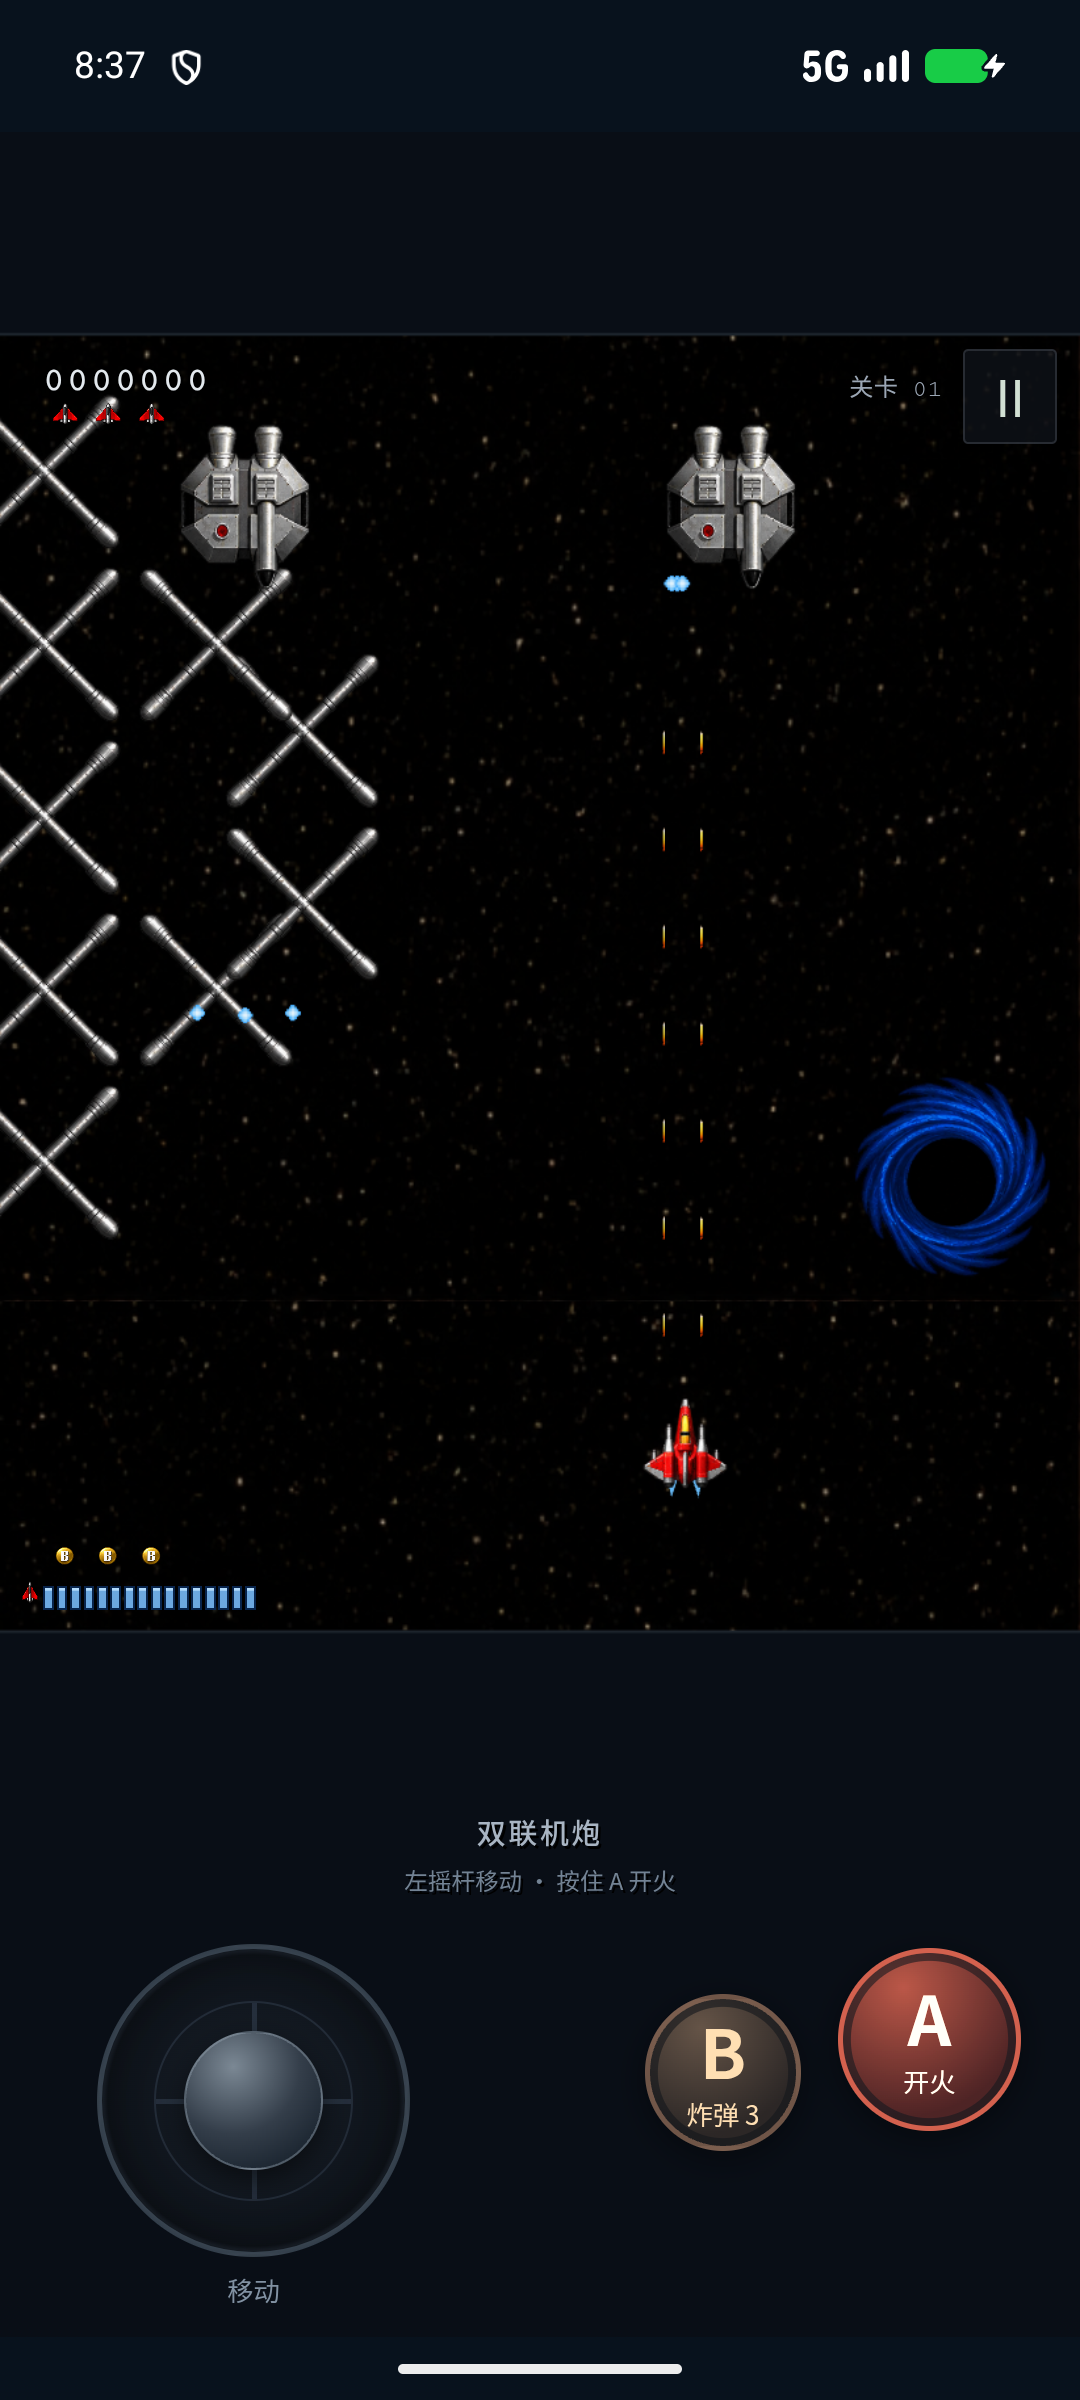
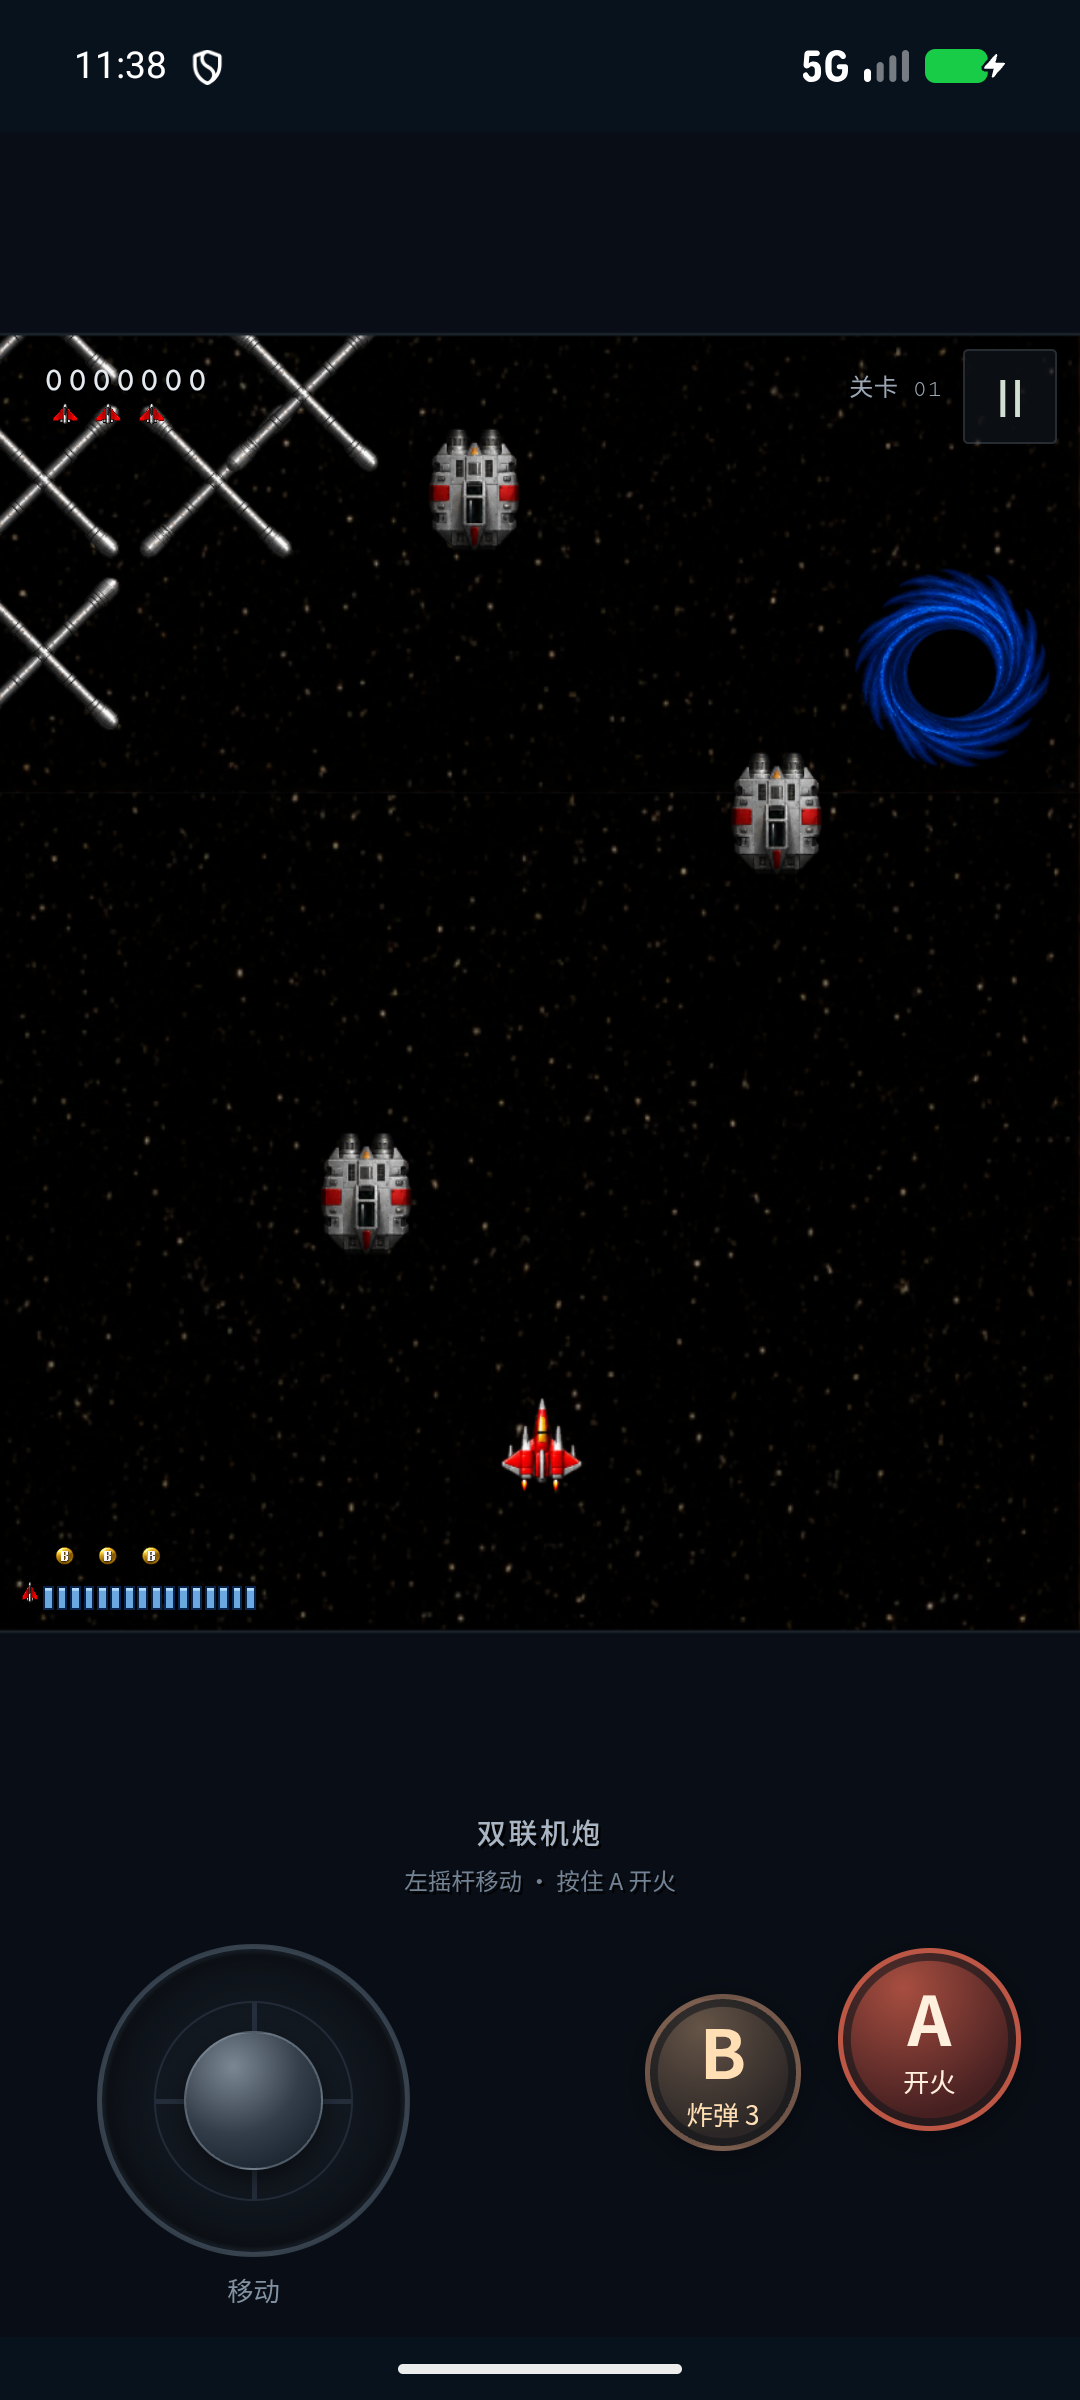
Document verified v0.2.1 mobile packages and authorized audio

diff --git a/tools/publish-release.py b/tools/publish-release.py
@@ -30,7 +30,7 @@ def main():
     api=GitHub();base='/repos/'+REPO
     releases=api.request(base+'/releases?per_page=100');release=next((r for r in releases if r['tag_name']==args.tag),None)
     notes=args.notes.read_text(encoding='utf-8')+'\n\n源码提交：`'+head+'`\n构建与验收提交：`'+args.build_sha+'`\n'
-    if release is None:release=api.request(base+'/releases','POST',{'tag_name':args.tag,'target_commitish':head,'name':'恶魔之星·重生 '+args.tag+' · M2.1 飞行与声音修正','body':notes,'draft':True,'prerelease':False})
+    if release is None:release=api.request(base+'/releases','POST',{'tag_name':args.tag,'target_commitish':head,'name':'恶魔之星·重生 '+args.tag+' · M2.1 原版装备与音效修正','body':notes,'draft':True,'prerelease':False})
     for file in paths:
         data=file.read_bytes();expected='sha256:'+hashlib.sha256(data).hexdigest();asset=next((a for a in release['assets'] if a['name']==file.name),None)
         if asset is None:

diff --git a/README.md b/README.md
@@ -6,7 +6,7 @@ DemonStar 4.04 的非官方移动端高清复刻，目标 **Android 10+ / iOS 12
 
 首个里程碑仅提供中文界面，后续再加入英文语言包。Android 与 iOS 共用离线 Canvas 游戏内核，分别由系统 WebView 和 UIKit/WKWebView 承载；没有广告、账号、埋点、联网权限或内购。
 
-**当前 M2.1（v0.2.1）修正经典 HUD、初始双发与双手操作，仍不是已验收的完整 1:1 移植。** 原版 1–18 关优先；19–25 关尚未开发。完整的确认项、推断值与差异见 [还原状态](docs/FIDELITY.md)。
+**当前 M2.1（v0.2.1）修正原版装备、主机飞行与声音，仍不是已验收的完整 1:1 移植。** 原版 1–18 关优先；19–25 关尚未开发。完整的确认项、推断值与差异见 [还原状态](docs/FIDELITY.md)。
 
 ![Menu](docs/screenshots/menu.png)
 
@@ -27,7 +27,7 @@ DemonStar 4.04 的非官方移动端高清复刻，目标 **Android 10+ / iOS 12
 - 逻辑采用原作代码中的 35 毫秒基础节拍，绘制插值保持平滑；敌方移动/射击与关卡滚动统一计时，Boss 出场按原版采用两倍基础 HP（纠正 v0.2.0 的误改）。尚未完成原作录像逐帧速度验收。
 - 原作机库菜单、主机、十八关背景、全部 Boss、第一关主要敌机/地物与武器弹体已有 AI 高清素材；尚未覆盖的敌机和地物仍有近似图形。原版音乐、双人、联网、地图编辑器未包含。
 
-[Android 竖屏实测画面](docs/screenshots/android-game.png) · [横屏实测画面](docs/screenshots/android-landscape.png) · [M2 补给重绘记录](docs/ART_COMBAT.md)
+[Android 竖屏实测画面](docs/screenshots/android-game.png) · [横屏实测画面](docs/screenshots/android-landscape.png) · [满级等离子清屏](docs/screenshots/nova-plasma.png) · [补给舱高清图集](docs/ART_SUPPLY.md) · [主机姿态图集](docs/ART_MOTION.md)
 
 ## 安装
 
@@ -91,7 +91,9 @@ open ios/DemonStar.xcodeproj
 
 M2.1 的 34 项引擎与音频回归通过，覆盖 18 关 Boss、开局双发、全部掉落编号、混合库存、轮换周期及不同刷新率的一致性。浏览器通过真实双指移动/开火、松手停止、禁止战场拖动瞬移、横竖屏及展开尺寸、暂停和旧 API 回退检查。
 
-Android Debug/签名 Release 编译及两种 Lint 通过；现有 Android 17 / API 37 AVD 上通过摇杆、A/B、旋转保持库存、系统返回和后台暂停验收，最终重建 APK 与实测包哈希一致。[Apple CI](https://github.com/Hashiao/DemonStar-Reborn/actions/runs/37907161109) 通过 iPhoneOS ARM64 编译，以及 iOS 18.5 的 iPhone 16 Pro、iPad Pro 11 英寸 (M4) 实际 WKWebView 输入探针：移动、双发、松手停止、初始生命/能量和炸弹消耗均通过。IPA 版本 0.2.0（2），包体与可执行文件最低系统检查为 12.0。[完整验收记录](https://github.com/Hashiao/DemonStar-Reborn/releases/download/v0.2.0/verification.json)。
+Android Debug/签名 Release 编译及两种 Lint 通过（0 错误，3 项平台兼容提示）；复用 Android 17 / API 37 AVD 验收摇杆、A/B、旋转保持库存、系统返回和后台暂停，测试与发布使用同一 APK。[Apple CI](https://github.com/Hashiao/DemonStar-Reborn/actions/runs/37924914574) 通过 iPhoneOS ARM64 编译，以及 iOS 18.5 的 iPhone 16 Pro、iPad Pro 11-inch (M4) 实际 WKWebView 输入探针：移动、双发、松手停止、初始生命/能量、炸弹消耗和新图集加载均通过。IPA 版本 0.2.1（3），包体与可执行文件最低系统检查为 12.0。两包内 22 个 MP3 均与用户提供源文件哈希一致，旧合成 WAV 已移除，包内文件名全部为 ASCII。[完整验收记录](https://github.com/Hashiao/DemonStar-Reborn/releases/download/v0.2.1/verification.json)。
+
+浏览器已验证真实 AudioContext 的开场播报、命中及爆炸调度；Android 模拟器本轮关闭声音输出，未做手机扬声器听感验收。
 
 旧 API 回退测试在 Chromium 中模拟缺失接口，**不是 iOS 12 真机测试**。`artifacts/*-verification.json` 和 Release 说明记录实际测试情况。
 

diff --git a/docs/releases/v0.2.1.md b/docs/releases/v0.2.1.md
@@ -1,4 +1,4 @@
-# v0.2.1 · M2.1 飞行与声音修正
+# v0.2.1 · M2.1 原版装备与音效修正
 
 - [Android APK](https://github.com/Hashiao/DemonStar-Reborn/releases/download/v0.2.1/DemonStar-Reborn-release.apk)：Android 10 / API 29 起，同一项目签名，支持覆盖旧版。
 - [DemonStar.ipa](https://github.com/Hashiao/DemonStar-Reborn/releases/download/v0.2.1/DemonStar.ipa)：iOS 12 起，iPhoneOS ARM64；**未签名，需自行签名安装**。
@@ -32,3 +32,11 @@
 主机移速是按视口跨度做的移动端校准，不是原版鼠标采样的逐帧复现；敌方世界计时仍采用上一版的 35 毫秒基础步长，仍待原作录像精确标定。碰撞、武器部分高级形态及 Boss 部件机制的剩余差异仍见 [还原状态](https://github.com/Hashiao/DemonStar-Reborn/blob/main/docs/FIDELITY.md)。
 
 [原版核对、声音来源与导入方法](https://github.com/Hashiao/DemonStar-Reborn/blob/main/docs/AUDIO_MOTION.md) · [主机图集提示词](https://github.com/Hashiao/DemonStar-Reborn/blob/main/docs/ART_MOTION.md)
+
+## 本版验收
+
+- 34 项引擎/音频回归通过；浏览器双指操作、横竖屏、旧 API 回退及装备场景回归通过。
+- Android Debug/Release 和 Lint 通过；复用 Android 17 / API 37 AVD，签名与旧版一致，未下载 SDK 或 AVD。
+- [iOS CI](https://github.com/Hashiao/DemonStar-Reborn/actions/runs/37924914574) 通过设备 ARM64 构建和 iOS 18.5 的 iPhone 16 Pro、iPad Pro 11-inch (M4) WKWebView 验收；IPA 0.2.1（3），最低部署目标 12.0，未签名。
+- 两个最终安装包中的 22 个 MP3、声音库和游戏脚本均通过一致性校验；包内文件名全部为 ASCII，旧合成 WAV 不再打包。
+- 最低系统真机、原作运行录像、手机扬声器 A/B 听感尚未验收；Android AVD 本轮无声音输出。部署目标不等于最低系统实测。
